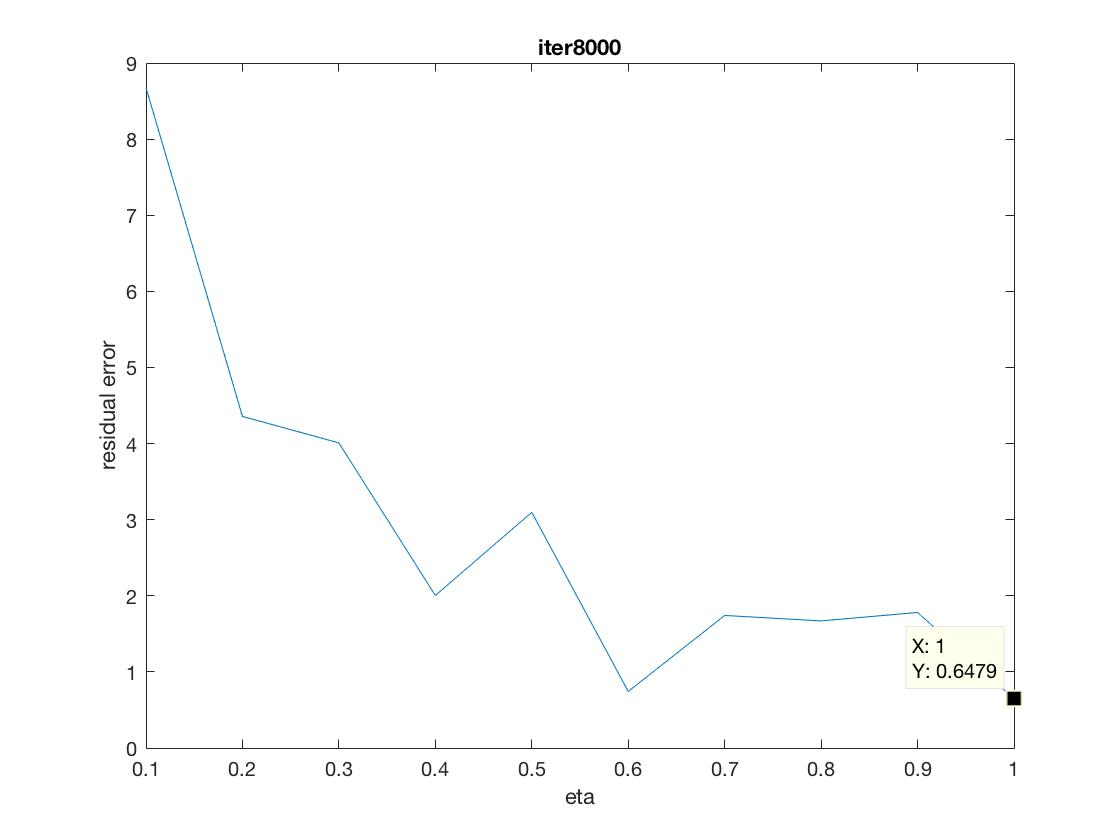
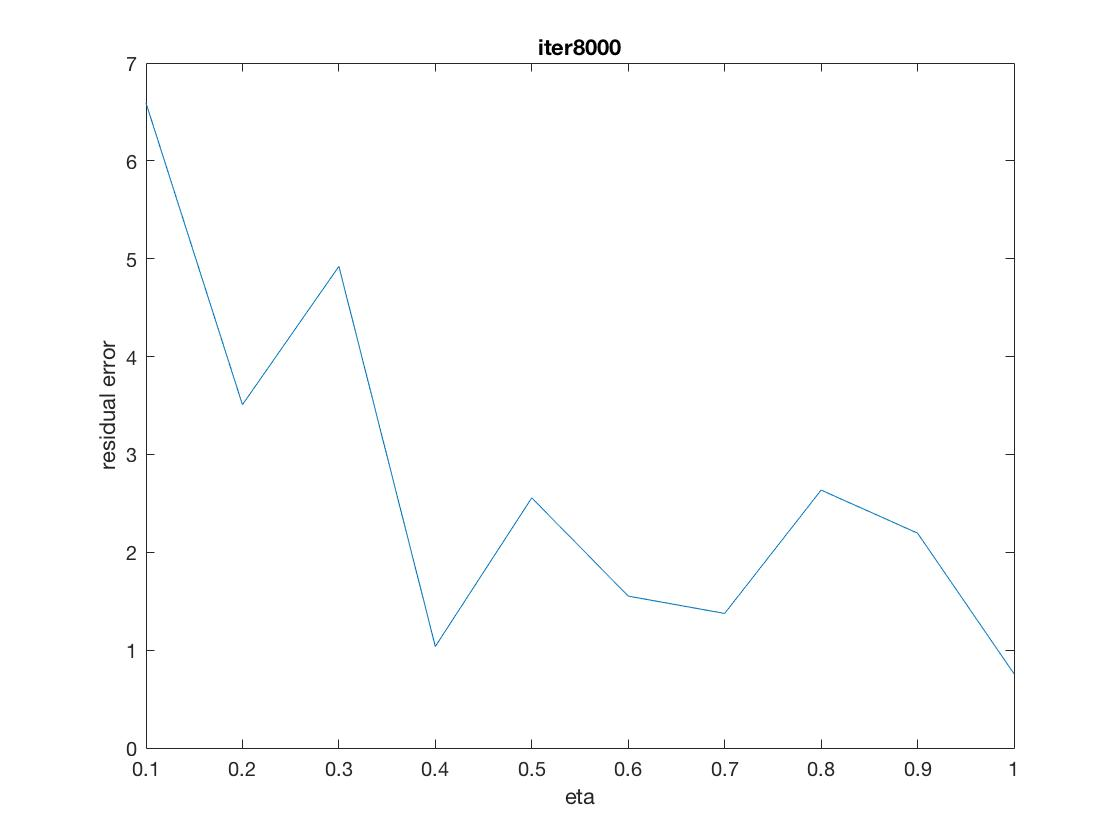
update after meeting

diff --git a/lab2/rbf.m b/lab2/rbf.m
@@ -4,8 +4,9 @@ clear;
 
 N = 10;
 x = 0:1/N:2*pi;
+%x = linspace(0,2*pi,6);
 x = x';
-units = 60;
+units = 600;
 %f = sin(2*x);
 f = square(2*x);
 
@@ -16,15 +17,17 @@ y = Phi*w;
 
 rbfplot1(x, y, f, units);
 
+%scatter(m,[0 0 0 0  0])
+
 figure
 
 %Convergence check
-r = [1];
-units = 1;
-while r(end) > 0.001
-y = LeastSquares(x, f, units);
-r = [ r max(abs(f - y))];
-units = units + 1;
-end
-r = r(1, 2:end);
-plot(1:units-1, r, 'b-');
+% r = [1];
+% units = 1;
+% while r(end) > 0.001
+% y = LeastSquares(x, f, units);
+% r = [ r max(abs(f - y))];
+% units = units + 1;
+% end
+% r = r(1, 2:end);
+% plot(1:units-1, r, 'b-');

diff --git a/lab2/func_approx_2.m b/lab2/func_approx_2.m
@@ -3,15 +3,12 @@ close all;
 
 [xtrain, ytrain]=readxy('ballist',2,2);
 [xtest, ytest]=readxy('balltest',2,2);
-%plot(xtrain,ytrain)
-B = [0.25 0.25 0.25 0.25];
-%B = [-0.5 0 0.5];
-A = 1;
 
-xtrain = filter(B,A,xtrain);
-ytrain = filter(B,A,ytrain);
+units_list = [4:2:20];
+units=6;
 
-units=20;
+for units = units_list
+    
 data=xtrain;
 vqinit;
 singlewinner=1;
@@ -36,6 +33,7 @@ Phitest=calcPhi(xtest,m,var);
 ytest1=Phitest*w1;
 ytest2=Phitest*w2;
 
+    
 figure
 subplot(2,2,1)
 xyplot(d1,y1,'train1')
@@ -46,3 +44,4 @@ xyplot(dtest1,ytest1,'test1')
 subplot(2,2,4)
 xyplot(dtest2,ytest2,'test2')
 
+end

diff --git a/lab2/DeltaRule_userfn.m b/lab2/DeltaRule_userfn.m
@@ -4,19 +4,20 @@ x = 0:1/N:4;
 fun = 'exp';
 
 x = x';
-units = 500;
+units = 100;
 eta = 0.8;
 
 r = [1];
-etaList = 1 %0.1:0.1:1;
+etaList = 0.1:0.1:1;
 for eta = etaList
     makerbf;
-    itermax = 400000;
+    itermax = 4000;
     iter = itermax;
     itersub = itermax/100;
     diter;
     r = [r max(abs(f - y))];
 end
+figure
 plot(etaList,r(2:end))
 xlabel('eta');
 ylabel('residual error');

diff --git a/lab2/som_EM.m b/lab2/som_EM.m
@@ -6,7 +6,7 @@ data = read('cluster');
 units = 5;
 
 vqinit;
-singlewinner=0;
+singlewinner=1;
 
 emiterb;
 
